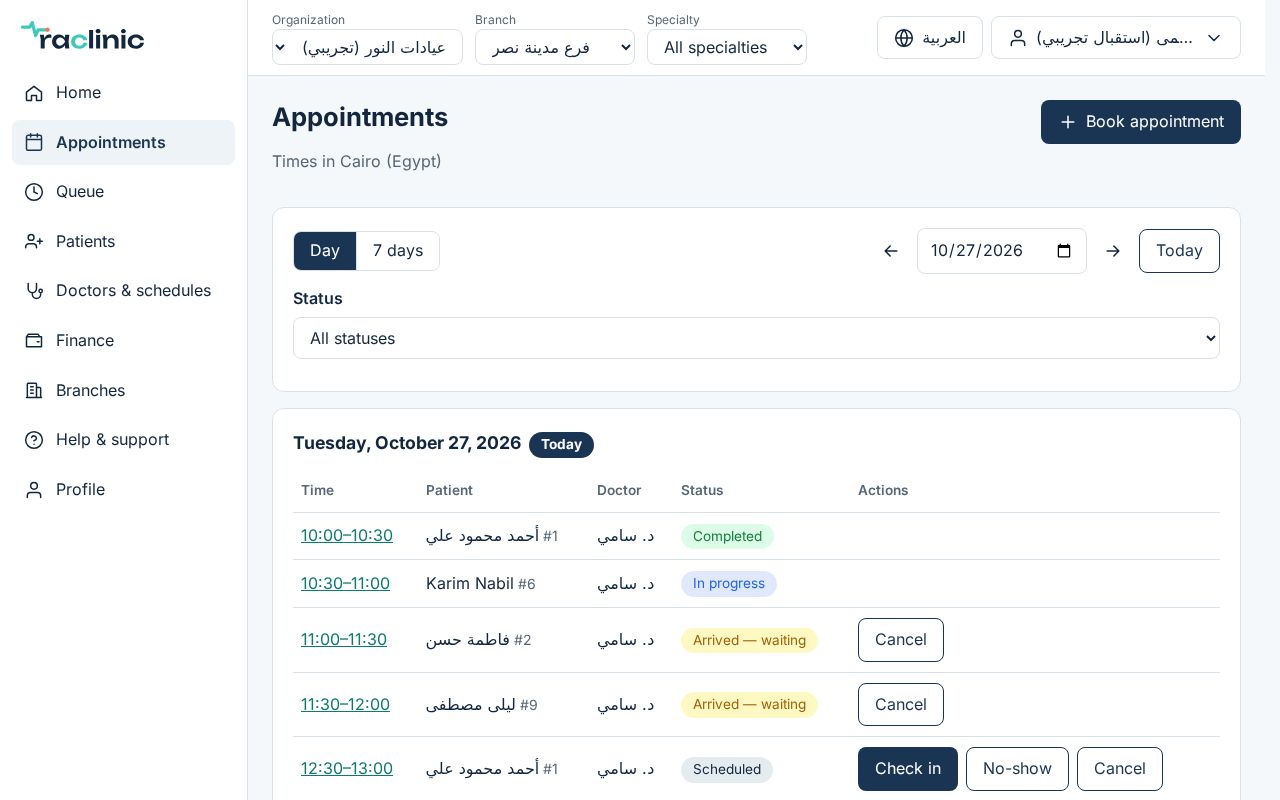
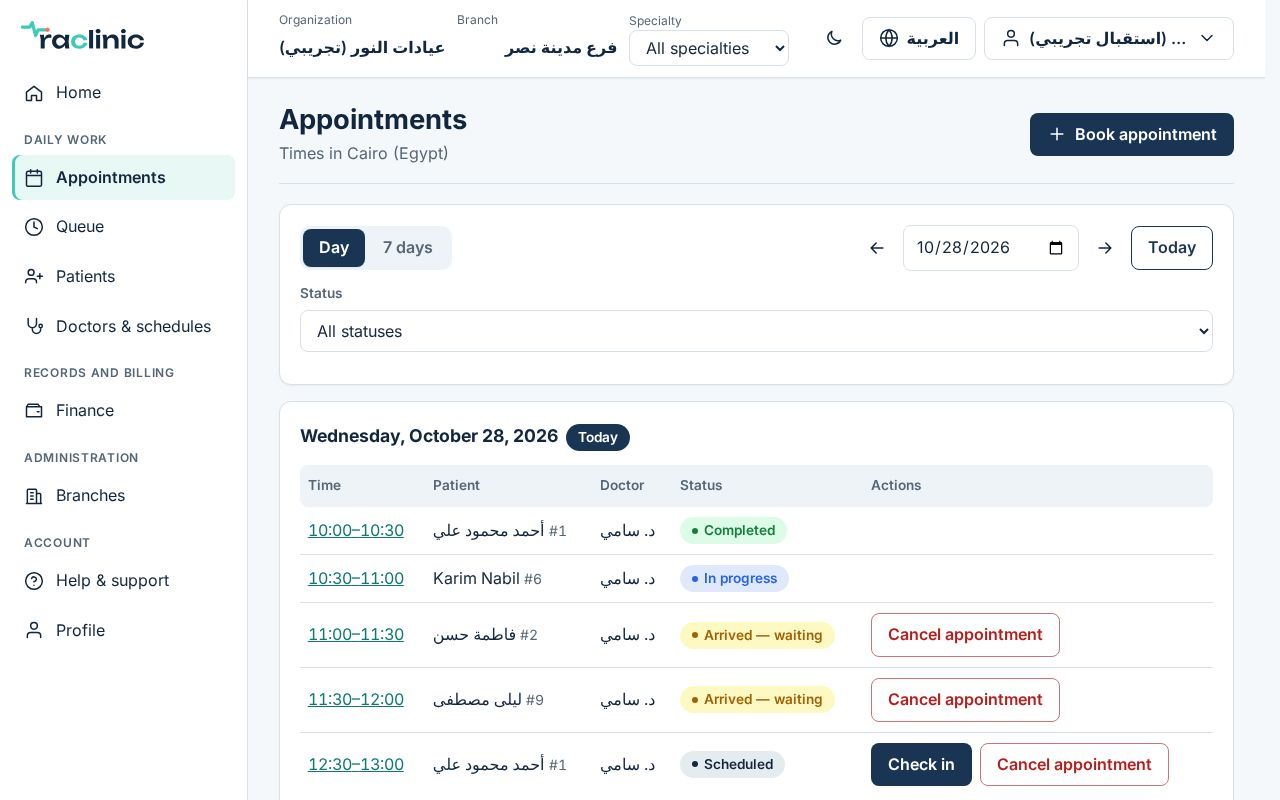
feat(web): 2x product screenshots, tracker and docs for the UI polish
- Product screenshots regenerated from the redesigned UI at 1x and 2x (srcset) on an isolated
  seeded database; the capture script takes both densities in one pass (UX-008).
- Form grids align fields at the top (a spelled-out date no longer shifts labels).
- docs/UI_POLISH_IMPLEMENTATION.md maps every review finding, icon/motion item and brief
  requirement to its status and evidence; PROGRESS, HANDOFF and BRAND updated for the
  light/dark themes and the preview port publishing.

diff --git a/apps/web/src/public/TourPage.tsx b/apps/web/src/public/TourPage.tsx
@@ -5,14 +5,14 @@ import { CountUp } from '../components/CountUp';
 import { Icon } from '../components/Icon';
 import { usePageMeta } from '../lib/pageMeta';
 import { Breadcrumb, CtaBlock } from './shared';
-import { productShot } from './solutions';
+import { productShot, productShotSet } from './solutions';
 
 /**
  * Product tour (reference P36): real screenshots of the workspace, taken with the synthetic demo
  * data, grouped by area. Each links to the page that describes that area. The capture date is the
  * date the images were last regenerated (scripts/brand/product-shots.cjs).
  */
-export const TOUR_CAPTURED = '2026-10-27';
+export const TOUR_CAPTURED = '2026-10-28';
 const GROUPS = [
   { key: 'frontDesk', shots: [{ shot: 'appointments', to: '/solutions/dentistry' }, { shot: 'week', to: '/solutions/medical-centers' }] },
   { key: 'patients', shots: [{ shot: 'patients', to: '/solutions/medical-centers' }, { shot: 'home', to: '/solutions/medical-centers' }] },
@@ -81,7 +81,7 @@ export function TourPage() {
                         setOpen(ALL_SHOTS.indexOf(shot));
                       }}
                     >
-                      <img src={productShot(shot, language)} alt={t(`site.tour.shots.${shot}.alt`)} width={1280} height={800} loading="lazy" decoding="async" />
+                      <img src={productShot(shot, language)} srcSet={productShotSet(shot, language)} alt={t(`site.tour.shots.${shot}.alt`)} width={1280} height={800} loading="lazy" decoding="async" />
                     </button>
                     <div className="site-shot-body">
                       <h3>{t(`site.tour.shots.${shot}.title`)}</h3>
@@ -149,7 +149,7 @@ function ShotDialog({ index, language, onMove, onClose }: { index: number; langu
             </button>
           </form>
         </header>
-        <img src={productShot(shot, language)} alt={t(`site.tour.shots.${shot}.alt`)} width={1280} height={800} />
+        <img src={productShot(shot, language)} srcSet={productShotSet(shot, language)} alt={t(`site.tour.shots.${shot}.alt`)} width={1280} height={800} />
         <footer className="site-lightbox-foot">
           <button type="button" className="button button--secondary" disabled={index === 0} onClick={() => onMove(index - 1)}>
             <Icon name="arrowBack" /> {t('site.tour.dialog.previous')}

diff --git a/apps/web/src/public/shared.tsx b/apps/web/src/public/shared.tsx
@@ -3,7 +3,7 @@ import { useTranslation } from 'react-i18next';
 import { Link } from 'react-router';
 import { CountUp } from '../components/CountUp';
 import { Icon, type IconName } from '../components/Icon';
-import { SOLUTIONS, inquiryPath, productShot, startPath, type Solution } from './solutions';
+import { SOLUTIONS, inquiryPath, productShot, productShotSet, startPath, type Solution } from './solutions';
 import { useList, type QuestionItem, type TitledItem } from './useList';
 
 // Building blocks of the public website (docs/FRONTEND_REDESIGN_IMPLEMENTATION.md). Content comes
@@ -80,6 +80,7 @@ export function ProductFrame({ shot, alt, label, floats = [], priority }: { shot
         </div>
         <img
           src={productShot(shot, i18n.resolvedLanguage ?? 'ar')}
+          srcSet={productShotSet(shot, i18n.resolvedLanguage ?? 'ar')}
           alt={alt}
           width={1280}
           height={800}

diff --git a/apps/web/src/public/SolutionsPages.tsx b/apps/web/src/public/SolutionsPages.tsx
@@ -19,7 +19,7 @@ import {
   Steps,
 } from './shared';
 import { useList, useObjects, type QuestionItem, type TitledItem } from './useList';
-import { SOLUTIONS, findSolution, inquiryPath, productShot } from './solutions';
+import { SOLUTIONS, findSolution, inquiryPath, productShot, productShotSet } from './solutions';
 
 export function SolutionsPage() {
   const { t } = useTranslation();
@@ -143,6 +143,7 @@ function SolutionPreview({ current }: { current: string }) {
               key={s.slug}
               className={s.slug === active.slug ? 'is-current' : undefined}
               src={productShot(s.shot, language)}
+              srcSet={productShotSet(s.shot, language)}
               alt={s.slug === active.slug ? t(`site.solutions.${s.key}.shotAlt`) : ''}
               aria-hidden={s.slug === active.slug ? undefined : true}
               width={1280}

diff --git a/apps/web/src/public/Site.test.tsx b/apps/web/src/public/Site.test.tsx
@@ -34,7 +34,10 @@ describe('every public page', () => {
   it('uses only product screenshots that exist, in both languages', () => {
     const shots = new Set(['appointments', 'record', 'finance', 'week', 'patients', 'home', 'services', ...SOLUTIONS.map((s) => s.shot)]);
     for (const language of ['ar', 'en']) {
-      for (const shot of shots) expect(existsSync(path.resolve(__dirname, `../../public/product/${language}/${shot}.jpg`)), `${language}/${shot}`).toBe(true);
+      for (const shot of shots) {
+        // Each in two densities (UX-008): 1280×800 and 2560×1600 for the srcset.
+        for (const file of [`${shot}.jpg`, `${shot}@2x.jpg`]) expect(existsSync(path.resolve(__dirname, `../../public/product/${language}/${file}`)), `${language}/${file}`).toBe(true);
+      }
     }
   });
 });

diff --git a/apps/web/src/layouts/PublicLayout.tsx b/apps/web/src/layouts/PublicLayout.tsx
@@ -67,7 +67,8 @@ function AuthPanel() {
             </li>
           ))}
         </ul>
-        <img className="auth-panel-shot" src={`/product/${language}/appointments.jpg`} alt={t('auth.panel.shotAlt')} loading="lazy" decoding="async" />
+        <img className="auth-panel-shot" src={`/product/${language}/appointments.jpg`}
+          srcSet={`/product/${language}/appointments.jpg 1x, /product/${language}/appointments@2x.jpg 2x`} alt={t('auth.panel.shotAlt')} loading="lazy" decoding="async" />
         <p className="auth-panel-note">{t('auth.panel.note')}</p>
       </div>
     </aside>

diff --git a/apps/web/src/public/solutions.ts b/apps/web/src/public/solutions.ts
@@ -73,3 +73,5 @@ export const PUBLIC_PATHS: readonly string[] = [
 
 /** A real workspace screenshot (synthetic demo data) in the page language. */
 export const productShot = (name: string, language: string) => `/product/${language === 'en' ? 'en' : 'ar'}/${name}.jpg`;
+/** 1x and 2x files of a screenshot, for <img srcSet> (UX-008: readable on high-density screens). */
+export const productShotSet = (name: string, language: string) => `${productShot(name, language)} 1x, ${productShot(name, language).replace(/\.jpg$/, '@2x.jpg')} 2x`;

diff --git a/apps/web/src/workspace.css b/apps/web/src/workspace.css
@@ -1216,3 +1216,9 @@
     min-inline-size: 0;
   }
 }
+
+/* Form grids align their fields at the top, so a hint under one field (a date spelled out) does not
+   push its label out of line with the others. Filter bars keep bottom alignment for their buttons. */
+.form-grid {
+  align-items: start;
+}

diff --git a/docs/UI_POLISH_IMPLEMENTATION.md b/docs/UI_POLISH_IMPLEMENTATION.md
@@ -1,0 +1,146 @@
+# UI polish implementation (phase 15)
+
+Tracker for the owner's UX/UI review of 2026-10-28 (49 findings UX-001…049, icon and motion
+recommendations ICN-01…11 / ANIM-01…11) and the implementation brief of the same day (light and
+dark themes, layout, icons, navbar, motion, counters, verification, preview). The review package
+is kept outside the repository (it contains screenshots of the running app):
+`review-inputs/ux-review-2026-10-28/` next to the checkout.
+
+Branch `phase-15/ui-polish`, stacked on `phase-14/public-redesign` (PR #15).
+
+**Status:** `done` implemented and verified · `partial` implemented in part, the rest named ·
+`deferred` not done, with the reason · `decision` needs the owner.
+**Evidence:** unit tests (`*.test.tsx`), e2e specs (`e2e/*.spec.ts`), and screenshots in
+`review-screenshots/raclinic-ui-polish-2026-10-28/` (INDEX.md there).
+
+## 1. Brief requirements
+
+| ID | Requirement | Correction | Status | Evidence |
+| --- | --- | --- | --- | --- |
+| THEME-1 | Light and dark themes everywhere, one shared system | `<html data-theme>` with semantic tokens: `styles.css` (workspace, account pages, operator), `workspace.css` (shadows, mint), `public.css` (site palette); no per-component dark rules | done | `lib/theme.test.tsx`; screenshots `*-light` / `*-dark` in every folder |
+| THEME-2 | Switch in public header, auth/onboarding, workspace, operator | `ThemeSwitcher` next to the language button in all four layouts (icon button, named action) | done | `Site.test.tsx` "theme switch"; screenshots |
+| THEME-3 | Light / dark / follow system; persisted; no backend dependency | `ThemeSelect` on the profile page; `localStorage clinc.theme` (absent = system); other tabs follow (`storage` event); system changes followed while on "system" | done | `lib/theme.test.tsx` |
+| THEME-4 | No wrong-theme flash, CSP-compatible | `public/theme-init.js`, a blocking script in `<head>` before the stylesheet (Helmet's CSP forbids inline scripts); `html[data-theme=dark]` background in the head style | done | built `dist/index.html` checked: script before the CSS |
+| THEME-5 | Contrast; status not by color alone | Dark pairs computed: text 13.2:1, muted 7.1:1, links 9.9:1, statuses 5.7–8.4:1, site tones ≥ 7.4:1; badges keep the dot + text; notices and field errors gained icons | done | contrast table in this file (§5) |
+| THEME-6 | Logo intact | Unchanged artwork; on dark surfaces it stays on its white tile (BRAND.md) | done | screenshots |
+| THEME-7 | Screenshots framed, not inverted | Light product images in a frame with a lit edge in dark mode | done | `public/*-dark` |
+| THEME-8 | Print independent of the theme | `@media print` resets the tokens to the light palette | done | `styles.css` print block |
+| LAYOUT-1 | Gutters, content width, rhythm | `--gutter` (16–32px), `--content-max` 1280px centered beside the sidebar; spacing scale; page header and action on one line | done | workspace/operator screenshots |
+| LAYOUT-2 | Aligned card rows, coherent metric cards | `Metric` component (icon, label, value, link); 6 → 3 → 2 columns by card width (container query), never an orphan | done | `UiPolish.test.tsx` dashboard; `owner-home-*` |
+| LAYOUT-3 | Safe areas | `viewport-fit=cover`; gutters and fixed bars use `env(safe-area-inset-*)` | done | CSS |
+| RESP-1 | 360–1920px, no page overflow | Header measured 1024–1920 ar/en; sweep of 20 pages × 8 widths (360, 390, 430, 720, 768, 1024, 1366, 1920) × ar/en with light/dark alternating: 0 overflow, 0 console errors (320 loads) | done | sweep log in the handoff; `e2e/public.spec.ts` overflow list |
+| RESP-2 | Zoom up to 200% | 720px CSS width = 1440px screen at 200%: part of the sweep | done | sweep |
+| ICON-1 | Icons on features, steps, solutions, metrics, sections, empty states | ICN-01…11 below; operator and clinic metrics; card titles | done | screenshots |
+| NAV-1 | Navbar and dropdown corrections | UX-001…005 below | done | `Site.test.tsx`; `menus/` |
+| MOTION-1 | Purposeful motion, reduced-motion respected | ANIM-01…11 below; all keyframes/transitions inside `prefers-reduced-motion: no-preference`; content hidden before a reveal only after the observer is ready | done | `public/motion.ts`; CSS |
+| COUNT-1 | Count-up for real numbers | `CountUp`: once on first appearance; React always renders the exact final value; the moving digits are hidden from screen readers; no animation with reduced motion or a zero; a new value (scope change, refresh) shows at once | done | `lib/theme.test.tsx` CountUp tests |
+| COUNT-2 | Where | Public facts band and about/tour stats (verified product facts only), clinic dashboard metrics, operator overview | done | screenshots |
+| ARCH-1 | Security and behavior preserved | No API or permission change. Front-end checks mirror API rules (booking branch, finalize minimum); the API still decides | done | full `npm run verify` and CI |
+
+## 2. Review findings
+
+| ID | Where | Correction | Status | Evidence |
+| --- | --- | --- | --- | --- |
+| UX-001 | Header menus, drawer | Explicit `.site-menu-item-text/-desc`; self-contained `.site-icon-tile` (centered, tinted, line-height 1); shared `MenuItem` | done | `Site.test.tsx` "menu entries mark their text"; `menus/` |
+| UX-002 | Arabic header overflow | Compact header (gaps, paddings, short language label "EN"/"ع"), drawer below 1200px; measured: 9px to spare at 1200px in Arabic | done | measurements; `public/home-*` |
+| UX-003 | Sign-in hidden 1061–1240px | Always in the bar on desktop widths, in the drawer below | done | screenshots |
+| UX-004 | Escape / Tab out | Escape returns focus to the trigger; leaving a menu with Tab closes it | done | `Site.test.tsx` |
+| UX-005 | Menu button at the edge | The hidden `<nav>` itself is hidden, no extra gap | done | `menus/drawer-mobile-*` |
+| UX-006 | Navy step text 2.2:1 | On-navy muted tone (6.7:1) | done | `public/home-*` |
+| UX-007 | Dark scheme after the public site | Superseded by THEME-1…4: one theme everywhere, chosen by the user | done | |
+| UX-008 | Unreadable product shots | Every shot regenerated at 2x (2560×1600) plus 1x, served with `srcset`; hero image eager with high fetch priority. Cropped close-ups not made: the full screens stay (tour, hero) | partial | `Site.test.tsx` checks both densities exist |
+| UX-009 | Blank preview on chip switch | All four shots stacked in one frame, cross-fade, idle preload | done | `public/solutions-*` |
+| UX-010 | Full size opened raw JPG | In-page `<dialog>` with previous/next, Escape, focus return, link to the original | done | `public/tour-lightbox-*` |
+| UX-011 | Duplicate sticky CTA on desktop | Only below 1200px (where the header has no create button), as a bottom bar with safe-area padding | done | mobile screenshots |
+| UX-012 | Long home page, duplicate eyebrows | Duplicate eyebrows reworded (solutions, compare). Merging sections is the owner's decision D-2 | partial / decision | `docs/PUBLIC_COPY.md` |
+| UX-013 | "Smart assistant" next to "no AI" | Hero eyebrow made descriptive ("إدارة العيادات بالعربية والإنجليزية"); the tagline stays in the logo areas (D-3 recommendation applied, reversible) | done | |
+| UX-014 | Lost specialty on later CTAs | Every create link of a solution page (header, drawer, comparison, closing, footer) keeps it | done | `Site.test.tsx` |
+| UX-015 | Tools notice heading | Only direct headings of a split get the large size | done | `public/dentistry-*` |
+| UX-016 | Contact column order | Form first on every width | done | `public/contact-*` |
+| UX-017 | FAQ gap | Tighter section after the hero | done | `public/faq-*` |
+| UX-018 | Sign-up note contradicts links | States what exists: verification and recovery available, no real email sent yet | done | |
+| UX-019 | "Resuming" on a fresh setup | The wizard keeps the draft found on load; saving no longer remounts it | done | |
+| UX-020 | No getting started | Owner/admin checklist from the organization's own data (currency, service, doctor, team, patient) with links and a book action; hidden when done or dismissed | done | |
+| UX-021 | Dashboard not role-aware, static counts | Counts link to the filtered appointments (not for viewers); shortcuts and overview first, reference cards after | done | `UiPolish.test.tsx` dashboard |
+| UX-022 | Booking branch | Default from the patient's registrations; confirm disabled with a warning for an unregistered branch; register (or reactivate) inline | done | `UiPolish.test.tsx` booking |
+| UX-023 | Stale and missing feedback | Booked/rescheduled notice only for that version; every status action confirmed in a polite message region (survives list moves) | done | `UiPolish.test.tsx` queue |
+| UX-024 | Queue overlap | Card-width container query: actions under the details when narrow; details wrap | done | `workspace/*queue*` |
+| UX-025 | Date formats | Booking and reschedule show the chosen date spelled out under the native field. The native field itself still follows the browser locale | partial | `workspace/owner-booking-*` |
+| UX-026 | "10 دقيقة" | i18next plurals (3–10 دقائق, 11+ دقيقة, دقيقتان) | done | `workspace/owner-booking-*` |
+| UX-027 | Impossible hint, one-option lists | Hint only when "all branches" is a choice; a single organization or branch shows as text | done | `AppShell.test.tsx`, `e2e/workspace.spec.ts` |
+| UX-028 | Mixed-direction text | `<bdi>`/FSI isolation for patient, service and charge names, invoice subtitle; `dir=auto` choosers | done | |
+| UX-029 | Heavy / ambiguous cancel | "Cancel appointment" in a destructive outline style | done | `UiPolish.test.tsx` |
+| UX-030 | Slot grid | Grouped morning / afternoon; current time marked when rescheduling | done | |
+| UX-031 | Doctor's path to the record | Treating doctor: "Open visit record" first (queue and appointment), "Complete" second; the draft starts directly when nothing needs choosing | done | `UiPolish.test.tsx` (2) |
+| UX-032 | Dental findings vs finalize rule | Minimum checked before the confirmation, fields marked and focused; rule text and "Tooth findings" label say what counts. Whether specialty findings should count is decision D-4 | done / decision | `UiPolish.test.tsx` visit record |
+| UX-033 | No autosave, buttons at the bottom | Sticky action bar with save state; debounced autosave (5s) through the versioned save; the leave warning already existed | done | `e2e/acceptance.spec.ts` save state |
+| UX-034 | Confirmation off screen | Invoice issue and record finalize confirmations scrolled into view and focused; cancel returns focus | done | |
+| UX-035 | No payment from the invoice | "Record a payment for this invoice" → account with the invoice preselected and the amount focused; credit note behind a button | done | `Finance.test.tsx`, `e2e/finance.spec.ts` |
+| UX-036 | Account page steps | Pending charges of one branch preselected; the new draft opens; charge/payment forms behind buttons; messages. Default branch = patient's branch not done (the account response has no registrations) | partial | `Finance.test.tsx`, `e2e/finance.spec.ts` |
+| UX-037 | Service code, texts | Code optional (next free `SRV-001`), clearer hint and page text, "currency saved" message | done | |
+| UX-038 | Forms before lists | Lists first on Team and Branches. One combined add/invite panel not done | partial | screenshots |
+| UX-039 | Terminology | "مطّلع", "موظف استقبال" everywhere; "الحساب المالي" for the finance account (D-5 recommendation applied) | done | e2e role labels updated |
+| UX-040 | Full-width save buttons | Natural width at the start of the form; spacing after details lists. The weekly-hours grid redesign not done | partial | `workspace/owner-settings-*` |
+| UX-041 | Default details markers | One chevron style in the workspace | done | |
+| UX-042 | Branches as status pills | Neutral bordered labels | done | `workspace/owner-patients-*` |
+| UX-043 | Focus on the new-patient form | Focus to its heading, back to the button on cancel | done | |
+| UX-044 | Heavy phone header and filters | One-row choosers with smaller text, short language label, filters two per row, compact stacked rows. A bottom sheet for the context choosers not done | partial | mobile screenshots |
+| UX-045 | Operator overview | "Needs action" (linked) and "platform status"; scope notice once; zeros neutral | done | `operator/overview-*` |
+| UX-046 | Audit filters | Action, actor and "hide sign-ins" over the loaded entries (the API pages by date only; no backend change) | done | `OperatorConsole.test.tsx` |
+| UX-047 | One empty-state icon | Context icons (41 places) | done | |
+| UX-048 | Select direction | `dir=auto` on organization/branch choosers and data selects added here | done | |
+| UX-049 | Sign-in language after logout | Kept (D-6 recommendation) | decision | |
+
+## 3. Icons and motion
+
+| ID | Correction | Status |
+| --- | --- | --- |
+| ICN-01/02 | Kept; tiles now self-contained | done |
+| ICN-03 | Calendar/queue/stethoscope/wallet beside the step titles (home), per-specialty workflow icons | done |
+| ICN-04 | One icon per problem card and tool card on each specialty page (`solutions.ts`) | done |
+| ICN-05 | Security and privacy sections | done |
+| ICN-06 | Superseded: the sign-in link stays visible (UX-003) | done |
+| ICN-07 | Notice icons by kind (CSS mask, `currentColor`) | done |
+| ICN-08 | Operator "needs action" cards | done |
+| ICN-09 | `EmptyState icon` | done |
+| ICN-10 | Field error mark | done |
+| ICN-11 | Getting started checklist | done |
+| ANIM-01 | Hero frame floats 6px / labels ±4px on their own phase, ≥1061px, paused off screen or in a hidden tab | done |
+| ANIM-02/03 | One-time reveals with stagger; split screenshots slide from their side | done |
+| ANIM-04 | Preview cross-fade 200ms | done |
+| ANIM-05 | Tour thumbnail lift on hover | done |
+| ANIM-06 | Lightbox open | done |
+| ANIM-07 | Accordion answers ease in (public FAQ, drawer, workspace disclosures) | done |
+| ANIM-08 | Dropdown exit animation | deferred (optional P3; needs delayed unmount) |
+| ANIM-09 | Press feedback on public buttons, chips, tabs | done |
+| ANIM-10 | Action messages slide in | done |
+| ANIM-11 | Confirmations scrolled into view (smooth only without reduced motion) | done |
+
+## 4. Decisions for the owner
+
+- **D-2** Merge "what changes in your day" with "a day at the clinic", shorten "available today".
+- **D-4** Should specialty findings (e.g. a tooth finding) count toward the finalize minimum? Clinical
+  rule; today the UI explains that they do not.
+- **D-6** Sign-in page language after a logout — kept as is.
+- Applied as recommended and easy to revert: D-1 (now a user choice), D-3 (hero eyebrow), D-5
+  (terminology).
+
+## 5. Dark-theme contrast (computed)
+
+| Pair | Ratio |
+| --- | --- |
+| text on surface | 13.2 |
+| muted on surface / page | 7.1 / 7.9 |
+| link on surface | 9.9 |
+| primary button (navy on turquoise) | 7.5 |
+| ok / warn / bad / info on their tints | 7.9 / 8.4 / 5.7 / 7.4 |
+| site muted, emphasis, tones (physio, ENT) | 7.8, 9.8, 7.7, 7.5 |
+| on-navy muted (light, dark) | 6.7, 8.8 |
+
+## 6. Verification
+
+- `npm run verify` in the Codespace: lint, typecheck, 722+ unit tests, build, 51 e2e tests.
+- Header fit 1024–1920px (ar/en), overflow sweep (§1 RESP-1), theme first paint (built page),
+  2x screenshots regenerated on an isolated seeded database (`scripts/brand/product-shots.cjs`).
+- Not verified here: real devices with notches (safe areas reasoned, not observed), screen readers
+  beyond the automated role/name checks, browsers other than Chromium.

diff --git a/docs/HANDOFF.md b/docs/HANDOFF.md
@@ -27,7 +27,7 @@ review, as are milestone 3 (`phase-8/clinic-finance`, PR [#9](https://github.com
 PR [#11](https://github.com/mostafaapozena/clinc-saas/pull/11)) and milestone 6 (`phase-11/acceptance`, PR [#12](https://github.com/mostafaapozena/clinc-saas/pull/12)). All milestones are in
 review; see [COMPLETION_MATRIX.md](COMPLETION_MATRIX.md) and [ACCEPTANCE.md](ACCEPTANCE.md). The
 scalability and subscriptions checkpoint is `phase-12/scalability-subscriptions` (PR [#13](https://github.com/mostafaapozena/clinc-saas/pull/13)); see
-[COMPLETION_ASSESSMENT.md](COMPLETION_ASSESSMENT.md). The front-end audit fixes are `phase-13/ui-audit-fixes` (PR [#14](https://github.com/mostafaapozena/clinc-saas/pull/14)) and the public website redesign is `phase-14/public-redesign` (PR [#15](https://github.com/mostafaapozena/clinc-saas/pull/15), tracker [FRONTEND_REDESIGN_IMPLEMENTATION.md](FRONTEND_REDESIGN_IMPLEMENTATION.md)). Open owner decisions are in
+[COMPLETION_ASSESSMENT.md](COMPLETION_ASSESSMENT.md). The front-end audit fixes are `phase-13/ui-audit-fixes` (PR [#14](https://github.com/mostafaapozena/clinc-saas/pull/14)) and the public website redesign is `phase-14/public-redesign` (PR [#15](https://github.com/mostafaapozena/clinc-saas/pull/15), tracker [FRONTEND_REDESIGN_IMPLEMENTATION.md](FRONTEND_REDESIGN_IMPLEMENTATION.md)); the UI polish with light/dark themes is `phase-15/ui-polish` (PR [#16](https://github.com/mostafaapozena/clinc-saas/pull/16), tracker [UI_POLISH_IMPLEMENTATION.md](UI_POLISH_IMPLEMENTATION.md)). The private preview needs the Codespace running; the devcontainer publishes ports 5173/4000 on the host loopback so the forwarder reaches them (they stay private). Open owner decisions are in
 the plan's blocker register (B1 = clinical-lead authority, Q17).
 
 ## Phase 5 state (2026-10-25)

diff --git a/docs/PROGRESS.md b/docs/PROGRESS.md
@@ -1,6 +1,18 @@
 # Progress
 
-_Last updated: 2026-10-27 (public website redesign in review, stacked on the front-end audit fixes)._
+_Last updated: 2026-10-28 (UI polish in review, stacked on the public website redesign)._
+
+## UI polish: light and dark themes, review findings (in review)
+
+Branch `phase-15/ui-polish`, PR [#16](https://github.com/mostafaapozena/clinc-saas/pull/16), stacked on `phase-14/public-redesign`. Tracker: [UI_POLISH_IMPLEMENTATION.md](UI_POLISH_IMPLEMENTATION.md) (every finding UX-001…049, ICN, ANIM and brief requirement with status and evidence).
+
+- **Themes:** light and dark everywhere, one switch per layout and a light/dark/system choice on the profile; saved per device; applied before the first paint (`public/theme-init.js`).
+- **Header:** dropdown icons centered and tinted, keyboard focus return, no horizontal scroll 1024–1920px in Arabic or English, sign-in always visible.
+- **Dashboards:** metric cards with icons, real values counting up once, links to the filtered lists; getting-started checklist for new organizations; operator overview grouped by what needs action.
+- **Workflows:** booking branch safeguards, action confirmations, doctor goes straight to the record, finalize pre-check and autosave, payment from the invoice, preselected charges.
+- **Public site:** motion (reveals, hero float, cross-fade, lightbox) off with reduced motion; product screenshots at 2x.
+- **Waiting on the owner:** D-2 (merge home sections), D-4 (count specialty findings for finalizing), D-6 (sign-in language after logout).
+
 
 ## Front-end redesign (in review)
 

diff --git a/docs/BRAND.md b/docs/BRAND.md
@@ -65,7 +65,11 @@ text or for conveying status. Therefore:
 - Validation and status colors (green/amber/red), and the blue focus ring, are unchanged so states
   stay unambiguous.
 - Dark mode (derived from the navy): background `#0D1B2E`, surfaces `#13253C`; turquoise becomes
-  the primary color with navy text on it (7.5:1), links `#7FDFD4`.
+  the primary color with navy text on it (7.5:1), links `#7FDFD4`. Since phase 15 the theme is a
+  user choice for the whole product, public site included (`<html data-theme>`, header switch,
+  profile setting; the system preference when nothing is chosen). The public site's dark palette
+  makes navy bands a deeper navy (`#081322`) and specialty tones their light tints (≥ 7:1).
+  Product screenshots stay light images in a frame; printouts always use the light palette.
 - Derived neutrals: background `#F5F8FA`, muted surface `#EDF3F6`, border `#D8E1E8`, muted text
   `#556677` (5.9:1).
 
